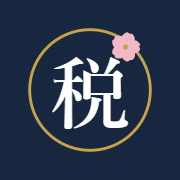
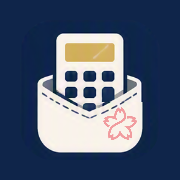
アイコンを差し替える（v17、未push）
図案は生成AIに描かせた案の1枚を下絵にした。紺の地に生成りの封筒型ポケット、
そこから金の電卓が覗く。名前（税額ポケット）が図案になっているのが採用理由。
下絵の右下にあった桜は、左右対称の位置から写して消し、そこに事務所のロゴを置いた。
事務所名の文字列は使わない。

材料は tools/icon-base.png（切り出し済みの下絵）と tools/logo-mark.png の2つ。
12案が並んだ元画像はリポジトリに残していない。
tools/icon-source.html を開いて「書き出す」だけで3サイズが出る。手で画像を編集しない。

★maskable のセーフゾーン（半径0.4）。下絵を 0.90 倍で置くと中身が 0.459 まで届き、
丸く切り抜く端末で欠ける。0.78 倍にして 0.397。ページ内で実測している。

★下絵は角丸なのでそのまま置くと角に白が残る。地を下絵と同じ紺で塗り、角丸のパスで
切り抜いてから重ねる。地の紺 rgb(15,37,74) は下絵の縁から採った値で、ずらすと輪郭が見える。

★Image.decode() がこの環境で解決しない。待ち合わせに使うとページが止まる。onload で待つ。

設計原則5を「禁止」から「何を守りたいか」に書き換えた（判断ログ D-34）。
守るのは全画面に常設した免責の1行で、名前やロゴの有無ではない。
リスクの見立てを原則の再掲で代替し、同じ論点を3回持ち出したことへの反省も D-34 に残した。

serve.mjs の書き戻し先に tools/icon-base.png を足した（開発専用のまま）。
テスト346件が通る。

diff --git a/tools/icon-source.html b/tools/icon-source.html
@@ -4,109 +4,98 @@
 <meta charset="utf-8">
 <title>アイコンの原稿</title>
 <!--
-  icons/*.png の原稿。**画像ライブラリは増やさない**。canvas に描いて PNG を書き出す。
+  icons/*.png を作る道具。**画像ライブラリは増やさない**。canvas で合成して書き出す。
 
     node tools/serve.mjs
-    → http://localhost:8080/tools/icon-source.html を開き、各サイズの「保存」を押す
-    → icons/ に置き換える
+    → http://localhost:8080/tools/icon-source.html
+    → 「書き出す」を押すと icons/ の3枚が置き換わる
 
-  ★2026-08-10、事務所ブランド配色（紺・金・桜）と桜モチーフを使う判断に変えた（判断ログ D-34）。
-    それ以前は「設計原則5のためブランド配色を使わない」として、濃いグレーに白の「税」だけだった。
-    画面側（styles/app.css）は従来どおり差し色は青1色で、ブランド配色は持ち込まない。
+  材料は2つ。
+    tools/icon-base.png … 下絵（225×225）。ポケットと電卓。生成AIに描かせた案から1枚を
+                           切り出し、右下にあった桜を左右対称の位置から写して消したもの
+    tools/logo-mark.png … 事務所のロゴ（桜）。事務所名は使わない（判断ログ D-34）
 
-  ★maskable のセーフゾーンは中央80%（＝中心から半径0.4）。
-    円形に切り抜かれても欠けないよう、描くものはすべて半径0.4の内側に収める。
+  ★maskable：OSがアイコンを丸く切り抜く。中身は中心から半径0.4の内側に収める。
+    下絵を 0.78 倍で置いているのはそのため（0.90 だと 0.459 まで届いて切れる）。
+    このページで実測しているので、値を変えたら必ず確認すること。
+
+  ★下絵は角丸の絵なので、そのまま置くと角に白が残る。
+    地を下絵と同じ紺で塗り、角丸のパスで切り抜いてから重ねている。
+    地の紺 rgb(15,37,74) は下絵の縁から採った値。ずらすと輪郭が見える。
+
+  ★Image.decode() は使わない。この環境で解決しないままページが止まることがあった。onload で待つ。
 -->
 <style>
-  body {
-    margin: 0;
-    padding: 2rem;
-    background: #f5f5f7;
-    font-family: system-ui, sans-serif;
-    color: #16181d;
-  }
-  h1 { font-size: 1.125rem; margin: 0 0 1.5rem; }
-  .row { display: flex; gap: 2rem; align-items: flex-end; flex-wrap: wrap; }
-  figure { margin: 0; }
-  figcaption { font-size: 0.75rem; color: #71757e; margin-top: 0.5rem; }
-  canvas { display: block; box-shadow: 0 1px 2px rgba(0,0,0,.08), 0 6px 20px rgba(0,0,0,.06); }
-  .maru { border-radius: 50%; }
-  button { margin-top: 0.5rem; font-size: 0.8125rem; padding: 0.375rem 0.75rem; }
+  body { margin:0; padding:2rem; background:#f5f5f7; font-family:system-ui,sans-serif; color:#16181d; }
+  h1 { font-size:1.125rem; margin:0 0 0.5rem; }
+  .lead { font-size:0.8125rem; color:#71757e; margin:0 0 2rem; }
+  .row { display:flex; gap:2rem; align-items:flex-start; flex-wrap:wrap; }
+  figure { margin:0; }
+  figcaption { font-size:0.75rem; color:#71757e; margin-top:0.625rem; }
+  canvas { display:block; box-shadow:0 1px 2px rgba(0,0,0,.1), 0 6px 20px rgba(0,0,0,.08); }
+  .maru { border-radius:50%; }
+  button { margin-top:1.5rem; font-size:0.875rem; padding:0.5rem 1rem; }
+  #check { margin-top:2rem; font-size:0.8125rem; white-space:pre-wrap; }
 </style>
 </head>
 <body>
-<h1>税額ポケット — アイコンの原稿</h1>
+<h1>税額ポケット — アイコン</h1>
+<p class="lead">左が実際のホーム画面に近い大きさ（132px・丸く切り抜いた状態）、右が確認用です。</p>
 <div class="row" id="out"></div>
+<button id="save">icons/ に書き出す（512・192・180）</button>
+<div id="check"></div>
 
 <script>
-// 事務所ブランド配色
-const KON = "#16273f";   // 紺（地）
-const KIN = "#c8a24a";   // 金（輪）
-const SAKURA = "#f2b8c6"; // 桜（花）
-const SHIRO = "#ffffff";
+const JI = "rgb(15,37,74)";   // 地の紺。下絵の縁から採った値
+const SCALE = 0.78;           // 下絵を置く倍率（セーフゾーンに収まる上限）
+const LOGO_W = 0.20;          // ロゴの幅（辺に対する比）
+const LOGO_X = 0.715;         // 下絵の中でのロゴの位置（元の桜があった場所）
+const LOGO_Y = 0.740;
 
-/** 桜の花びら1枚。中心から上へ伸ばす。先端に浅い切れ込みを入れる */
-function hanabira(ctx, r) {
-  ctx.beginPath();
-  ctx.moveTo(0, 0);
-  ctx.bezierCurveTo(r * 0.52, -r * 0.18, r * 0.60, -r * 0.72, r * 0.16, -r * 0.96);
-  ctx.quadraticCurveTo(0, -r * 0.84, -r * 0.16, -r * 0.96); // 先端の切れ込み
-  ctx.bezierCurveTo(-r * 0.60, -r * 0.72, -r * 0.52, -r * 0.18, 0, 0);
-  ctx.closePath();
-  ctx.fill();
+const load = (src) =>
+  new Promise((res, rej) => {
+    const i = new Image();
+    i.onload = () => res(i);
+    i.onerror = () => rej(new Error(`読めない: ${src}`));
+    i.src = src;
+  });
+
+function egaku(base, logo, S) {
+  const cv = document.createElement("canvas");
+  cv.width = S; cv.height = S;
+  const c = cv.getContext("2d");
+  c.fillStyle = JI;
+  c.fillRect(0, 0, S, S);
+  const k = S * SCALE, off = (S - k) / 2;
+  c.save();
+  c.beginPath();
+  c.roundRect(off, off, k, k, k * 0.24); // 下絵の角丸に合わせて切り抜く
+  c.clip();
+  c.drawImage(base, off, off, k, k);
+  c.restore();
+  const lw = S * LOGO_W, lh = lw * (logo.naturalHeight / logo.naturalWidth);
+  c.drawImage(logo, off + k * LOGO_X - lw / 2, off + k * LOGO_Y - lh / 2, lw, lh);
+  return cv;
 }
 
-/** 桜の花（5弁） */
-function sakura(ctx, cx, cy, r, kaiten) {
-  ctx.save();
-  ctx.translate(cx, cy);
-  ctx.rotate(kaiten);
-  ctx.fillStyle = SAKURA;
-  for (let i = 0; i < 5; i++) {
-    ctx.save();
-    ctx.rotate((i * Math.PI * 2) / 5);
-    hanabira(ctx, r);
-    ctx.restore();
+/** 中身（生成り・金・桜）が中心からどこまで届くか。0.4以下なら丸く切られても欠けない */
+function jikoTenken(base, logo) {
+  const S = 256;
+  const d = egaku(base, logo, S)
+    .getContext("2d", { willReadFrequently: true })
+    .getImageData(0, 0, S, S).data;
+  let max = 0;
+  for (let y = 0; y < S; y++) for (let x = 0; x < S; x++) {
+    const i = (y * S + x) * 4, r = d[i], g = d[i + 1], b = d[i + 2];
+    const naka =
+      (r > 190 && g > 180 && b > 160) ||            // 生成り
+      (r > 170 && g > 130 && b < 130) ||            // 金
+      (r > 200 && g > 120 && g < 200 && b > 130 && b < 205 && r - g > 35); // 桜
+    if (!naka) continue;
+    const rr = Math.hypot(x - S / 2, y - S / 2) / S;
+    if (rr > max) max = rr;
   }
-  // 花芯
-  ctx.fillStyle = KIN;
-  ctx.beginPath();
-  ctx.arc(0, 0, r * 0.17, 0, Math.PI * 2);
-  ctx.fill();
-  ctx.restore();
-}
-
-function draw(canvas, S) {
-  canvas.width = S;
-  canvas.height = S;
-  const ctx = canvas.getContext("2d");
-
-  // 地。maskable なので隅まで塗る
-  ctx.fillStyle = KON;
-  ctx.fillRect(0, 0, S, S);
-
-  const c = S / 2;
-
-  // 金の輪。セーフゾーン（半径0.4）の内側に置く
-  ctx.strokeStyle = KIN;
-  ctx.lineWidth = S * 0.016;
-  ctx.beginPath();
-  ctx.arc(c, c, S * 0.335, 0, Math.PI * 2);
-  ctx.stroke();
-
-  // 「税」。明朝で、輪の内側に収める
-  ctx.fillStyle = SHIRO;
-  ctx.textAlign = "center";
-  ctx.textBaseline = "middle";
-  ctx.font = `600 ${S * 0.44}px "Yu Mincho", "Hiragino Mincho ProN", "Noto Serif JP", "MS Mincho", serif`;
-  // 明朝は字面が上に寄るので、わずかに下げて光学的な中心を合わせる
-  ctx.fillText("税", c, c + S * 0.015);
-
-  // 桜を輪に重ねる。右上。
-  // ★中心を半径0.31に置く（0.31＋花の半径0.085＝0.395 でセーフゾーン0.4の内側）。
-  //   輪（0.335）はこの花を貫くので、離れて見えることはない。
-  const kaku = -Math.PI * 0.28;
-  sakura(ctx, c + Math.cos(kaku) * S * 0.31, c + Math.sin(kaku) * S * 0.31, S * 0.085, 0.3);
+  return max;
 }
 
 const SIZES = [
@@ -115,34 +104,55 @@ const SIZES = [
   { size: 180, file: "apple-touch-icon-180.png" },
 ];
 
-const out = document.getElementById("out");
-for (const s of SIZES) {
-  const fig = document.createElement("figure");
-  const cv = document.createElement("canvas");
-  cv.className = "maru";
-  cv.style.width = Math.min(s.size, 256) + "px";
-  cv.style.height = Math.min(s.size, 256) + "px";
-  draw(cv, s.size);
-  const cap = document.createElement("figcaption");
-  cap.textContent = `${s.size}×${s.size} — ${s.file}（丸く切り抜いた見え方）`;
-  const btn = document.createElement("button");
-  btn.textContent = "保存";
-  btn.onclick = () => {
-    const a = document.createElement("a");
-    a.href = cv.toDataURL("image/png");
-    a.download = s.file;
-    a.click();
-  };
-  fig.append(cv, cap, btn);
-  out.append(fig);
-}
+(async () => {
+  const [base, logo] = await Promise.all([
+    load("/tools/icon-base.png"),
+    load("/tools/logo-mark.png"),
+  ]);
+  const out = document.getElementById("out");
 
-// 書き出し用。開発時にコンソール／自動化から呼ぶ
-window.png_dataurl = (size) => {
-  const cv = document.createElement("canvas");
-  draw(cv, size);
-  return cv.toDataURL("image/png");
-};
+  for (const [size, label, maru] of [
+    [132, "ホーム画面での見え方（丸く切り抜き）", true],
+    [256, "確認用", false],
+  ]) {
+    const fig = document.createElement("figure");
+    const cv = egaku(base, logo, 512);
+    cv.style.width = cv.style.height = size + "px";
+    if (maru) cv.className = "maru";
+    const cap = document.createElement("figcaption");
+    cap.textContent = label;
+    fig.append(cv, cap);
+    out.append(fig);
+  }
+
+  const todoke = jikoTenken(base, logo);
+  document.getElementById("check").textContent =
+    `セーフゾーンの実測：中身の最大半径 ${todoke.toFixed(3)}（0.4以下なら丸く切られても欠けない）` +
+    (todoke > 0.4 ? "\n★超えている。SCALE を小さくすること。" : "");
+
+  const save = async () => {
+    const r = [];
+    for (const s of SIZES) {
+      const res = await fetch("/__save-icon", {
+        method: "POST",
+        headers: { "Content-Type": "application/json" },
+        body: JSON.stringify({
+          file: s.file,
+          dataurl: egaku(base, logo, s.size).toDataURL("image/png"),
+        }),
+      });
+      r.push({ file: s.file, ok: res.ok });
+    }
+    return r;
+  };
+  document.getElementById("save").onclick = async (e) => {
+    e.target.disabled = true;
+    const r = await save();
+    e.target.textContent = r.every((x) => x.ok) ? "書き出した" : "失敗";
+  };
+  window.kakidashi = save;
+  window.tenken = () => Number(jikoTenken(base, logo).toFixed(3));
+})();
 </script>
 </body>
 </html>

diff --git a/docs/判断ログ.md b/docs/判断ログ.md
@@ -1536,46 +1536,64 @@ D-04 が求めた「評価額が入力値である旨の画面への明示」に
 
 ---
 
-## D-34 アイコンにだけ事務所のブランド配色と桜モチーフを使う（設計原則5の一部を覆す）
+## D-34 アイコンに事務所のロゴ（桜）とブランド配色を使う（設計原則5の書き換え）
 
-2026年8月10日（令和8年8月10日）。**ユーザー判断で、設計原則5の適用範囲を狭めた。**
+2026年8月10日（令和8年8月10日）。**ユーザー判断で、設計原則5を「禁止」から「何を守りたいか」に書き換えた。**
 
-- **それまで**：アイコンは濃いグレー地に白い明朝の「税」1文字だけ。
-  `tools/icon-source.html` に「事務所ブランド配色（紺・金・桜）は使わない（設計原則5）」と
-  明記して作ってあった
-- **判断**：**ホーム画面のアイコンには紺・金・桜のブランド配色と桜モチーフを使う。**
-  画面（`styles/app.css`）は従来どおりで、差し色は青1色・ブランド配色は持ち込まない
-- **残す線引き**：**事務所名の文字列とロゴマークは、アイコンにも入れない。**
-  原則5が守ろうとしていた「一般の人が誤った税額を得たときに事務所の責任になる」という懸念のうち、
-  **特定に直結するのは名前とロゴ**であり、配色とモチーフはそこまでの特定力を持たない、という整理
-- ★**画面とアイコンで方針が違う。片方を見てもう片方を直さないこと。**
-  `CLAUDE.md` の原則5と「見た目」の両方に、この分岐を書いた
+- **決めたこと**：ホーム画面のアイコンに**事務所のロゴマーク（桜）とブランド配色**を使う。
+  **事務所名の文字列は使わない。** 画面（`styles/app.css`）は従来どおりで、差し色は青1色
+- **守るものは免責**：全画面に常設している1行（「概算であり、申告その他の税務判断の根拠として
+  用いることはできません」）。原則5が本当に守りたかったのはこれで、名前やロゴの有無ではない
 
-### 図案
+### ★リスクの見立てを、原則の再掲で代替しない
 
-紺（`#16273f`）の地に金（`#c8a24a`）の細い輪、中に白の明朝「税」、輪の右上に桜（`#f2b8c6`）を1輪重ねる。
+当初この案件で、Claude は原則5を**3回、語調を強めながら**持ち出した。ユーザーからの指摘 ——
 
-- **maskable のセーフゾーン（中心から半径0.4）を実測で確かめた。** 地以外の画素の最大半径は
-  **0.392**で、0.4を超える画素は0。初稿は桜を輪と同じ半径0.335に置いており、
-  花の半径0.085と合わせて0.42まではみ出していた（**丸く切り抜く端末で花びらが欠ける**）
-- 「税」は明朝の字面が上に寄るので、光学的な中心に合わせて `S*0.015` だけ下げている
+> リスクが顕在化した時の被害の大きさと便益を天秤にかけないと、原則はこうですというルールばかりが
+> 前に押し出されると、その都度あなたを訂正するのがすごく手間
 
-### 作り方を「スクリーンショット」から「canvas で描いて書き戻す」に変えた
+**この指摘は妥当。** 実際に天秤にかけると：
 
-- それまでは `tools/icon-source.html` をブラウザで開き、**人が3サイズでスクリーンショットを撮る**手順だった
-- canvas に描いて `toDataURL` で PNG を作り、`tools/serve.mjs` に足した `POST /__save-icon` で
-  `icons/` へ書き戻す。**画像ライブラリは増やしていない**（Node と canvas の標準機能だけ）
-- 書ける先は3つのファイル名に固定し、パスは受け取らない。**開発専用**で、
-  GitHub Pages は静的配信なのでこの経路は公開先に存在しない（`sw.js` の `SHELL` にも入らない）
-- 利点は再現性。次に図案を直すときも、同じ3枚が同じ手順で出る
+- 責任が生じる筋道が細い。**全画面に免責がある**。無償・無契約・匿名の相手が勝手に使い、
+  望まない結果になった経路で不法行為責任を問うには過失と相当因果関係の両方が要る
+- 税理士法の側でも引っかかりにくい。汎用の計算ツールの公開は**具体的事案の税務相談ではない**。
+  そもそも税理士法人が出しているので無資格者の論点も立たない
+- 残るのは法的責任というより評判の話で、それも免責と「概算」表示で薄まる
+- 便益は「職員が自分たちの事務所の道具だと思える」。内製ツールの定着に直結する
 
-### 版
+**発生確率は低く、顕在化しても損害は主に評判。天秤はロゴを入れる側に傾く。**
+そもそも原則5は「事務所名を出して**公式サービスとして運営するか**」を決めたときの記述（D-06）で、
+**意匠の話に適用したのが誤りだった。**
 
-アイコンは `sw.js` の `SHELL`（版付き cache-first）に入っているので、**v16 → v17 に上げた**。
+### 図案と作り方
+
+- 生成AI（Copilot）に描かせた案の1枚を**下絵**として採用した。紺の地に生成りの封筒型ポケット、
+  そこから金の電卓が覗く図。**名前（税額ポケット）が図案になっている**のが採用理由
+- 下絵の右下にあった桜を、**左右対称の位置から写して消し**、そこに事務所のロゴを置いた
+  （ポケットが左右対称なので、鏡像で自然に埋まる）
+- 材料は `tools/icon-base.png`（切り出し済みの下絵）と `tools/logo-mark.png`（ロゴ）の2つ。
+  **12案が並んだ元画像はリポジトリに残していない**（採用した1枚だけを持つ）
+- `tools/icon-source.html` を開いて「書き出す」だけで3サイズが出る。**手で画像を編集しない**
+
+### 実装で踏んだこと（次に触る人へ）
+
+- ★**maskable のセーフゾーン（半径0.4）。** 下絵を 0.90 倍で置くと中身が **0.459** まで届いて、
+  丸く切り抜く端末で欠ける。**0.78 倍にして 0.397**。ページ内で実測しているので、
+  倍率を変えたら必ず数字を見ること
+- ★**下絵は角丸の絵なので、そのまま置くと角に白が残る。** 地を下絵と同じ紺で塗り、
+  角丸のパスで切り抜いてから重ねる。**地の紺 `rgb(15,37,74)` は下絵の縁から採った値**で、
+  ずらすと輪郭が線になって見える（実際に一度見えた）
+- ★**`Image.decode()` がこの環境で解決しない。** 待ち合わせに使うとページ全体が止まる。
+  `onload` で待つこと（ロゴ読み込みと下絵の解析で2回踏んだ）
+- 素性：**下絵は生成AIの出力**、ロゴは事務所のもの
+
+### 版と、既存端末での差し替え
+
+アイコンは `sw.js` の `SHELL`（版付き cache-first）にあるので **v16 → v17** に上げた。
 
 ★**既にホーム画面に追加済みの端末でアイコンが差し替わるかは未確認。**
 iOS は追加時にアイコンを取り込む挙動が知られているが、こちらで確かめていない。
-**変わらない場合、職員には「一度削除して追加し直す」を案内することになる**（配布から日が浅い今なら傷は浅い）。
+**変わらない場合は「一度削除して追加し直す」の案内が要る。**
 
 ---
 

diff --git a/CLAUDE.md b/CLAUDE.md
@@ -22,8 +22,13 @@
 2. **入力値をURLに乗せない** — 結果共有機能を作る場合の禁止事項。URLは履歴・アクセスログに残る
 3. **数値表もリンクURLもコードに埋めない** — すべて `data/` の外部データファイルに置く。改正時の作業を「1ファイル差し替え」に落とし、税務がわかる職員なら誰でもできる状態にする（属人化対策）
 4. **オフラインで動く** — ロジックと数値表は端末にキャッシュし、オンライン時に裏で最新を取りに行く。関与先で電波が悪くても直近版で動く
-5. **画面に事務所名・ロゴを入れない ＋ 免責を1行置く** — 事務所名を出すと「事務所が公開している税額計算ツール」になり、一般の人が使って誤った税額を得たときの対外的な責任が生じる
-   - ★**アイコンだけは例外**（2026-08-10 ユーザー判断・判断ログ D-34）。ホーム画面のアイコンは紺・金・桜のブランド配色と桜モチーフを使う。**事務所名の文字列とロゴマークは、アイコンにも入れない**
+5. **免責を1行、全画面に常設する** — 守りたいのはこれ。一般の人が開いて誤った税額を得たときに、
+   このツールが「概算であって申告の根拠にならない」と読める状態を保つ
+   - **画面に事務所名・ロゴは出さない**（画面は道具として中立に保つ）
+   - **アイコンには事務所のロゴ（桜のマーク）とブランド配色を使う**（2026-08-10 ユーザー判断・D-34）。
+     **事務所名の文字列は使わない**
+   - ★かつてここは「事務所名・ロゴを入れない」という禁止だった。**禁止に例外を継ぎ足す形をやめ、
+     何を守りたいのかを本体にした。** 意匠の是非を毎回この条文で止めないこと（D-34）
 6. **リンクには適用年度を必ず表示する**（例「令和8年分 源泉徴収税額表」）＋ リンク集の最終更新日を画面に出す
 7. **数値そのものをアプリに持つのは Rule of Three 後** — リンクで運用して「毎回開くページ」が3つ以上見えてから、その数個だけ取り込む
 
@@ -85,8 +90,9 @@
 内部ツールの4原則（グローバル CLAUDE.md）に従う。**画面には事務所ブランド配色（紺・金・桜）を持ち込まない**。
 差し色は青1色のまま。ダークモードは実装しない。
 
-**アイコン（`icons/*.png`）だけはブランド配色と桜モチーフを使う**（2026-08-10・判断ログ D-34）。
-原稿は `tools/icon-source.html`。**画面とアイコンで方針が違うので、片方を見てもう片方を直さないこと。**
+**アイコン（`icons/*.png`）はブランド配色と事務所のロゴを使う**（2026-08-10・判断ログ D-34）。
+作り直すときは `tools/icon-source.html` を開いて「書き出す」。手で画像を編集しない。
+**画面とアイコンで方針が違うので、片方を見てもう片方を直さないこと。**
 
 ---
 
